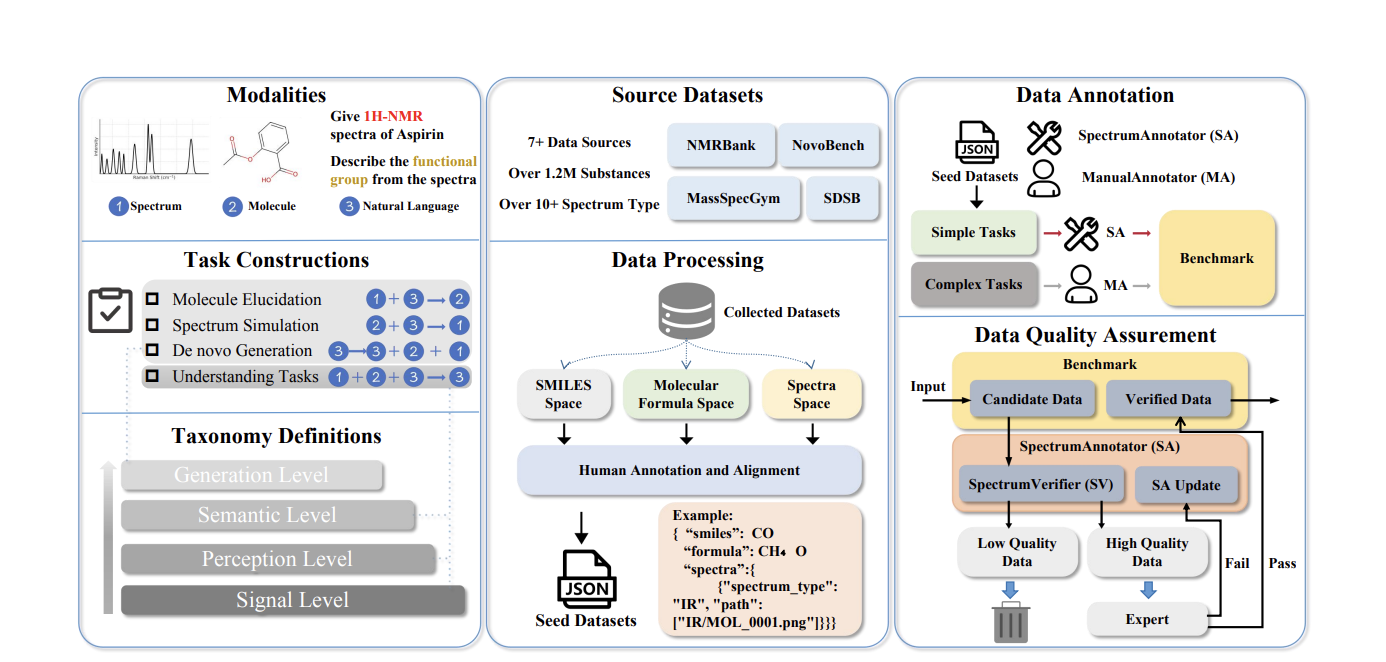
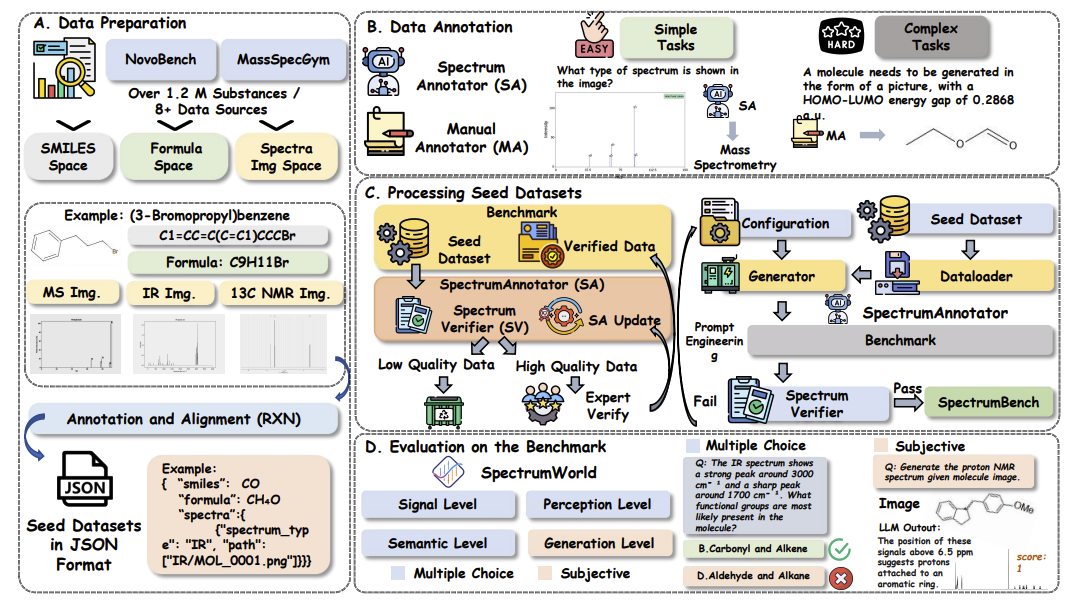
[add] add molspectllm

diff --git a/index.html b/index.html
@@ -114,15 +114,50 @@
             <table
               style="width:100%;border:0px;border-spacing:0px 10px;border-collapse:separate;margin-right:auto;margin-left:auto;"><tbody>
 
+                <tr bgcolor="#ffffd0">
+                  <td style="padding:16px;width:34%;vertical-align:middle">
+                    <div class="one">
+
+                      <img src='images/molspectllm.png' width="250">
+                    </div>
+                    <script type="text/javascript"></script>
+                  </td>
+                  <td style="padding:8px;width:80%;vertical-align:middle">
+                    <span class="papertitle">MolSpectLLM: A Molecular Foundation
+                      Model Bridging Spectroscopy, Molecule Elucidation, and 3D
+                      Structure Generation
+                    </span>
+                    <br>
+                    <strong>Shuaike Shen</strong><sup>*</sup>, Jiaqing
+                    Xie<sup>*</sup>, Zhuo
+                    Yang, Antong Zhang, Shuzhou
+                    Sun, Ben Gao, Tianfan Fu<sup>†</sup>, Biqing Qi<sup>†</sup>,
+                    Yuqiang Li<sup>†</sup>
+                    <br>
+                    <em>Under review</em>, 2025
+                    <br>
+                    <a
+                      href="https://arxiv.org/abs/2509.21861">arXiv</a>
+                    <p>
+                      MolSpectLLM, molecular foundation model that integrates
+                      spectroscopy, molecule elucidation, and 3D
+                      structure generation into a unified framework.
+                    </p>
+                  </td>
+                </tr>
+
+              </tbody></table>
+
+            <table
+              style="width:100%;border:0px;border-spacing:0px 10px;border-collapse:separate;margin-right:auto;margin-left:auto;"><tbody>
+
                 <tr>
                   <td style="padding:16px;width:34%;vertical-align:middle">
                     <div class="one">
 
                       <img src='images/spectraworld.png' width="250">
                     </div>
-                    <script type="text/javascript">
-
-        </script>
+                    <script type="text/javascript"></script>
                   </td>
                   <td style="padding:8px;width:80%;vertical-align:middle">
                     <span class="papertitle">SpectrumWorld: Artificial
@@ -158,9 +193,7 @@
 
                       <img src='images/rifold.png' width="250">
                     </div>
-                    <script type="text/javascript">
-
-        </script>
+                    <script type="text/javascript"></script>
                   </td>
                   <td style="padding:8px;width:80%;vertical-align:middle">
                     <span class="papertitle">From Sentences to Sequences:
@@ -173,7 +206,7 @@
                       Chen</a><sup>†</sup>
 
                     <br>
-                    <em>Under review</em>, 2025
+                    2025
                     <br>
                     <a
                       href="https://arxiv.org/abs/2507.00953">arXiv</a>
@@ -198,9 +231,7 @@
 
                       <img src='images/rl_2.png' width="250">
                     </div>
-                    <script type="text/javascript">
-
-        </script>
+                    <script type="text/javascript"></script>
                   </td>
                   <td style="padding:8px;width:80%;vertical-align:middle">
                     <span class="papertitle">Training Text-to-Image Flow Models
@@ -213,7 +244,7 @@
                       href="https://www.mit.edu/~geliu/">Ge Liu</a><sup>†</sup>
 
                     <br>
-                    <em>Under review</em>, 2025
+                    2025
                     <br>
                     <p>
                     </p>
@@ -232,9 +263,7 @@
 
                       <img src='images/rl_1.png' width="250">
                     </div>
-                    <script type="text/javascript">
-
-        </script>
+                    <script type="text/javascript"></script>
                   </td>
                   <td style="padding:8px;width:80%;vertical-align:middle">
                     <span class="papertitle">Online Reward-Weighted Fine-Tuning
@@ -274,9 +303,7 @@
 
                       <img src='images/aisi.png' width="250">
                     </div>
-                    <script type="text/javascript">
-
-        </script>
+                    <script type="text/javascript"></script>
                   </td>
                   <td style="padding:8px;width:80%;vertical-align:middle">
                     <span class="papertitle">A Denoising Pre-training Framework
@@ -313,9 +340,7 @@
 
                       <img src='images/cebind.png' width="250">
                     </div>
-                    <script type="text/javascript">
-
-        </script>
+                    <script type="text/javascript"></script>
                   </td>
                   <td style="padding:8px;width:80%;vertical-align:middle">
                     <span class="papertitle">Physics-Informed Neural Networks
@@ -328,7 +353,7 @@
                       Chen</a><sup>†</sup>
 
                     <br>
-                    <em>Under review</em>, 2024
+                    2024
                     <br>
                     <!-- <a
                       href="https://arxiv.org/abs/2507.00953">arXiv</a>
@@ -350,9 +375,7 @@
 
                       <img src='images/DPF.png' width="250">
                     </div>
-                    <script type="text/javascript">
-
-        </script>
+                    <script type="text/javascript"></script>
                   </td>
                   <td style="padding:8px;width:80%;vertical-align:middle">
                     <span class="papertitle">Boost Your Crystal Model with
@@ -386,9 +409,7 @@
 
                       <img src='images/fadiff.png' width="250">
                     </div>
-                    <script type="text/javascript">
-
-        </script>
+                    <script type="text/javascript"></script>
                   </td>
                   <td style="padding:8px;width:80%;vertical-align:middle">
                     <span class="papertitle">Floating Anchor Diffusion Model for
